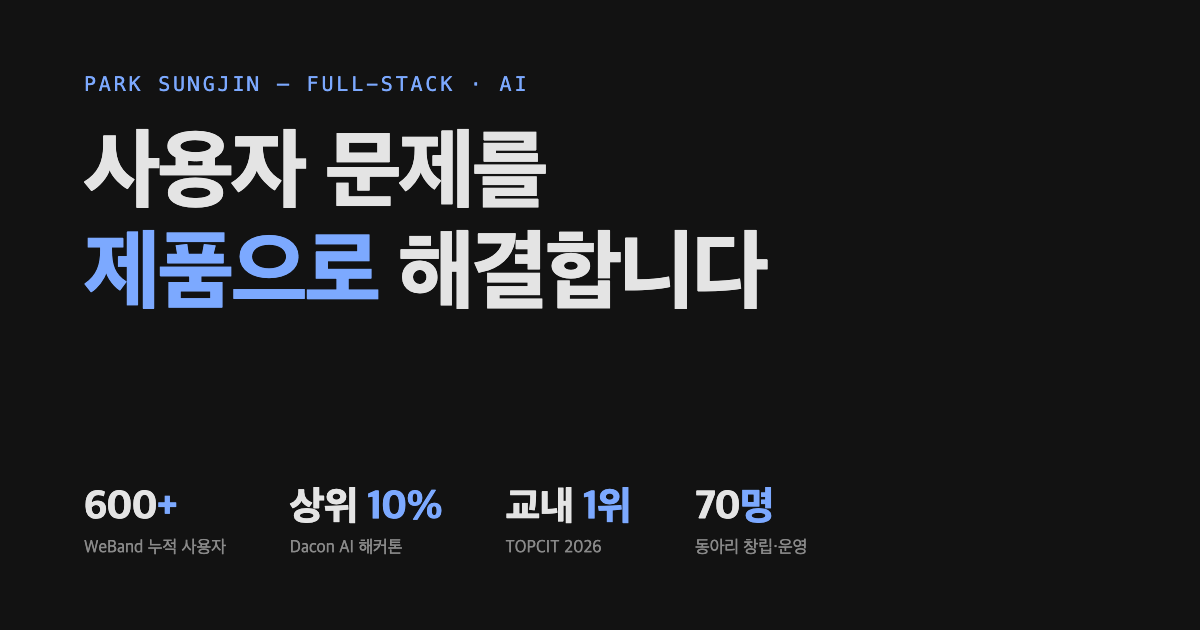
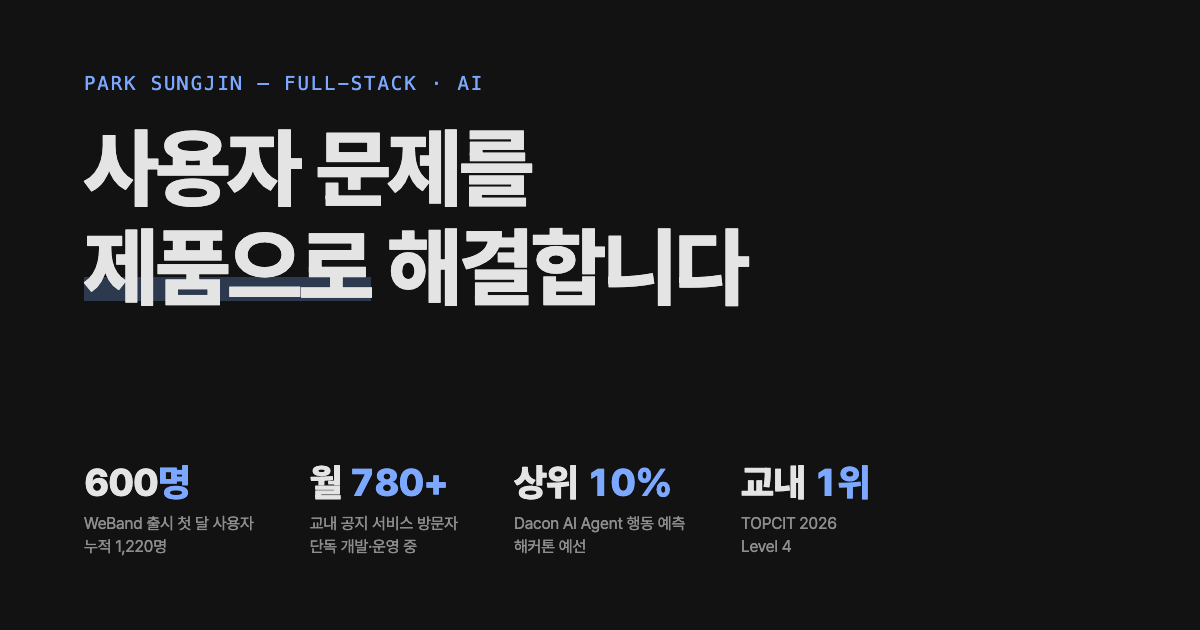
문장 형태·히어로 폴드·OG 정합성 수정
리서치 결과 '기계로 만든 느낌'의 주원인이 디자인이 아니라 문장 형태로
확인됨: 본문 전체가 '[정의] — [부연]' 한 가지 구문을 29회 반복.

- em-dash 29 → 10. 21개 항목을 자연스러운 문장으로 재작성
  (남은 것은 날짜 범위 등 정당한 용례)
- 히어로 상단 패딩 축소: 720~800px 노트북에서 연락처 링크가
  폴드 아래로 밀리던 문제 해소
- 다크모드에서 알파 0.12로 사실상 보이지 않던 h1 하이라이트 강화
- 모바일에서 '600' 숫자가 프로젝트 제목보다 위에 오던 순서 수정
  (맥락 없는 숫자가 첫인상이 되고, aria-hidden이라 낭독도 안 됨)
- OG 이미지를 사이트 지표와 일치시킴 (누적/첫 달 혼동, 항목 불일치)
- 블로그 문장을 편수 우선에서 근거 우선으로 재배열

diff --git a/index.html b/index.html
@@ -34,7 +34,7 @@ document.documentElement.setAttribute('data-theme',t);document.documentElement.c
   --accent:#1D4ED8;
   --border:color-mix(in oklab, var(--fg) 13%, transparent);
   --border-soft:color-mix(in oklab, var(--fg) 7%, transparent);
-  --accent-weak:color-mix(in oklab, var(--accent) 9%, transparent);
+  --accent-weak:color-mix(in oklab, var(--accent) 16%, transparent);
   --mono:ui-monospace,"SF Mono",SFMono-Regular,Menlo,Consolas,"Liberation Mono",monospace;
 }
 :root[data-theme="dark"]{
@@ -45,7 +45,7 @@ document.documentElement.setAttribute('data-theme',t);document.documentElement.c
   --fg-2:rgba(255,255,255,.65);
   --fg-3:rgba(255,255,255,.52);
   --accent:#7CA9FF;
-  --accent-weak:color-mix(in oklab, var(--accent) 12%, transparent);
+  --accent-weak:color-mix(in oklab, var(--accent) 26%, transparent);
 }
 /* JS 미실행 환경에서도 시스템 다크 선호 존중 */
 @media (prefers-color-scheme:dark){
@@ -57,7 +57,7 @@ document.documentElement.setAttribute('data-theme',t);document.documentElement.c
     --fg-2:rgba(255,255,255,.65);
     --fg-3:rgba(255,255,255,.52);
     --accent:#7CA9FF;
-    --accent-weak:color-mix(in oklab, var(--accent) 12%, transparent);
+    --accent-weak:color-mix(in oklab, var(--accent) 26%, transparent);
   }
 }
 
@@ -115,7 +115,7 @@ code{font-family:var(--mono);font-size:.88em;background:color-mix(in oklab, var(
 #theme:hover{color:var(--fg);border-color:var(--fg-3)}
 
 /* ── hero ───────────────────────────────────────────── */
-.hero{padding-block:clamp(5rem,4rem + 8vw,11rem) clamp(4rem,3rem + 5vw,7rem)}
+.hero{padding-block:clamp(3rem,2.25rem + 3.5vw,5.5rem) clamp(4rem,3rem + 5vw,7rem)}
 .eyebrow{font-family:var(--mono);font-size:.78rem;letter-spacing:.08em;color:var(--accent);text-transform:uppercase}
 h1{
   margin-top:1.25rem;
@@ -276,7 +276,7 @@ figcaption{margin-top:.85rem;font-size:.85rem;color:var(--fg-3);max-width:52ch}
   .stats{grid-template-columns:repeat(2,auto)}
   .about-grid{grid-template-columns:1fr}
   .case-grid{grid-template-columns:1fr}
-  .case-figure{text-align:left;order:-1}
+  .case-figure{text-align:left}
 }
 @media (max-width:640px){
   body{font-size:1rem}
@@ -340,7 +340,7 @@ figcaption{margin-top:.85rem;font-size:.85rem;color:var(--fg-3);max-width:52ch}
       <article class="case reveal">
         <p class="meta"><span>2026.04 —</span><span class="on">Live</span><span>Next.js</span><span>FastAPI</span><span>SQLite</span><span>RAG</span></p>
         <h3>KAU Notice Hub</h3>
-        <p class="case-lede">약 70개 사이트에 흩어진 교내 공지를 한곳에서 — 수집·검색·질의응답까지 혼자 만들어, 교내 구성원이 활발히 사용 중인 서비스.</p>
+        <p class="case-lede">약 70개 사이트에 흩어진 교내 공지를 한곳에 모았습니다. 수집부터 검색, 질의응답까지 혼자 만들었고 지금 교내 구성원이 쓰고 있습니다.</p>
 
         <div class="case-body">
           <p><span class="lead-in">문제</span>한국항공대의 공지는 학과·부서별로 약 70개 웹사이트에 흩어져 있고, 매년 2,000건 넘게 올라옵니다. 장학금·행사 공지를 놓치는 일이 잦아, 전부 모아서 한곳에서 찾을 수 있게 만들었습니다.</p>
@@ -348,7 +348,7 @@ figcaption{margin-top:.85rem;font-size:.85rem;color:var(--fg-3);max-width:52ch}
 
           <figure class="shot-wide shot-hero reveal" style="margin-top:2.25rem">
             <img src="img/notice-hub-main.webp" width="1400" height="812" loading="lazy" decoding="async" alt="KAU Notice Hub 서비스 화면 — 왼쪽은 대상자·중분류로 좁혀 보는 공지 탐색 목록(총 2,455건), 오른쪽은 진행 중인 공모전을 묻는 질문에 근거 공지를 바탕으로 답한 AI 챗봇 대화">
-            <figcaption>실제 서비스 화면 — 공지 탐색 · AI 챗봇</figcaption>
+            <figcaption>실제 서비스 화면 (공지 탐색 · AI 챗봇)</figcaption>
           </figure>
 
           <ol class="flow" aria-label="시스템 구성 흐름" style="margin-top:2.5rem">
@@ -363,14 +363,14 @@ figcaption{margin-top:.85rem;font-size:.85rem;color:var(--fg-3);max-width:52ch}
           <ul class="decisions">
             <li>키워드 기반 RAG의 한계를 확인하고 <b>LLM 키워드 선택 → 문서 필터링 → reranking</b> 구조로 재설계했습니다. <a class="ref ext" href="https://qktjwl123.tistory.com/180" target="_blank" rel="noopener">글: RAG 고찰</a></li>
             <li>"좋아진 것 같다"로 끝내지 않기 위해 <b>RAGAS 평가 파이프라인</b>을 만들어 근거 충실성·관련성·정확성을 수치로 봅니다. <a class="ref ext" href="https://qktjwl123.tistory.com/181" target="_blank" rel="noopener">글: RAG 평가 도입</a></li>
-            <li>공지 데이터를 메모리에 전부 올리던 초기 구조에서 <b>OOM이 발생</b> — dmesg로 원인을 확인하고 SQLite 기반으로 바꾼 뒤 부하 테스트로 검증했습니다. <a class="ref ext" href="https://qktjwl123.tistory.com/179" target="_blank" rel="noopener">글: 인프라 점검</a></li>
+            <li>공지 데이터를 메모리에 전부 올리던 초기 구조에서 <b>OOM이 발생</b>했습니다. dmesg로 원인을 확인하고 SQLite 기반으로 바꾼 뒤 부하 테스트로 검증했습니다. <a class="ref ext" href="https://qktjwl123.tistory.com/179" target="_blank" rel="noopener">글: 인프라 점검</a></li>
             <li>공개 서비스의 비용·어뷰징 리스크에 대비해 <b>rate limit·요청 크기·출력 토큰 상한</b>을 걸고, Vercel Analytics로 사용 흐름을 보며 개선 방향을 정합니다. <a class="ref ext" href="https://qktjwl123.tistory.com/182" target="_blank" rel="noopener">글: 운영 리스크</a> <a class="ref ext" href="https://qktjwl123.tistory.com/186" target="_blank" rel="noopener">글: 모니터링</a></li>
           </ul>
-          <p><span class="lead-in">현재</span>교내 구성원이 활발히 사용하고 있습니다 — 최근 30일 방문자 782명, 페이지뷰 2,019회(Vercel Analytics, 2026.07). 유입 대부분이 교내 커뮤니티(에브리타임)를 통해 들어오며, AWS Lightsail 단일 서버에서 운영 중입니다. 위 결정들의 과정은 모두 블로그에 기록해 두었습니다.</p>
+          <p><span class="lead-in">현재</span>교내 구성원이 활발히 사용하고 있습니다. 최근 30일 방문자 782명, 페이지뷰 2,019회(Vercel Analytics, 2026.07). 유입 대부분이 교내 커뮤니티(에브리타임)를 통해 들어오며, AWS Lightsail 단일 서버에서 운영 중입니다. 위 결정들의 과정은 모두 블로그에 기록해 두었습니다.</p>
 
           <figure class="shot-wide reveal">
             <img src="img/notice-hub-analytics.webp" width="1400" height="902" loading="lazy" decoding="async" alt="Vercel Analytics 대시보드 — 최근 30일 방문자 782명, 페이지뷰 2,019회. 유입 경로 1위는 교내 커뮤니티 everytime.kr 439명">
-            <figcaption>Vercel Analytics — 최근 30일 · 유입 1위 everytime.kr</figcaption>
+            <figcaption>Vercel Analytics, 최근 30일 (유입 1위 everytime.kr)</figcaption>
           </figure>
 
           <dl class="kmetrics">
@@ -393,7 +393,7 @@ figcaption{margin-top:.85rem;font-size:.85rem;color:var(--fg-3);max-width:52ch}
         <div class="case-grid">
           <div>
             <h3>WeBand</h3>
-            <p class="case-lede">가입 없이 링크 하나로 팀 일정을 조율하는 웹 앱 — 출시 한 달 만에 사용자 600명.</p>
+            <p class="case-lede">가입 없이 링크 하나로 팀 일정을 조율하는 웹 앱입니다. 출시 한 달 만에 600명이 썼습니다.</p>
           </div>
           <div class="case-figure" aria-hidden="true">
             <span class="big-num">600</span>
@@ -406,7 +406,7 @@ figcaption{margin-top:.85rem;font-size:.85rem;color:var(--fg-3);max-width:52ch}
 
           <figure class="shot-url reveal">
             <img src="img/weband-url.webp" width="1130" height="80" loading="lazy" decoding="async" alt="브라우저 주소창 — we-band.vercel.app/lite/260726/홍길동.~AFAHA_AGBLAGBnAEB_AFCaAK 처럼 일정이 인코딩된 짧은 공유 주소">
-            <figcaption>실제 공유 주소 — 서버 없이 일정 전체가 URL에 담깁니다</figcaption>
+            <figcaption>서버 없이 일정 전체가 이 주소 안에 담깁니다</figcaption>
           </figure>
 
           <figure class="shots-fig reveal">
@@ -415,14 +415,14 @@ figcaption{margin-top:.85rem;font-size:.85rem;color:var(--fg-3);max-width:52ch}
               <img src="img/weband-input.webp" width="560" height="1213" loading="lazy" decoding="async" alt="주간 시간표에서 가능한 시간대를 구간으로 선택해 입력한 화면">
               <img src="img/weband-share.webp" width="560" height="1213" loading="lazy" decoding="async" alt="일정 저장 완료 안내 — 일정이 인코딩된 짧은 공유 URL이 표시된 화면">
             </div>
-            <figcaption>실제 서비스 화면 — 날짜 선택 · 구간 입력 · URL 공유</figcaption>
+            <figcaption>실제 서비스 화면 (날짜 선택 · 구간 입력 · URL 공유)</figcaption>
           </figure>
 
           <p><span class="lead-in">결과</span>출시 한 달 만에 사용자 600명, 이후 2025년 3~9월 누적 방문자 1,220명·페이지뷰 6,055회를 기록했습니다(Vercel Analytics). 참여자가 늘며 URL 방식의 한계가 보여, 고정 공유 링크를 쓰는 DB 기반 <b>WeBand-Together</b>로 확장했습니다. 프로젝트 전 과정을 디자이너·백엔드 개발자와 협업하며 기획·UX·프론트엔드 구현을 주도했습니다.</p>
 
           <figure class="shot-wide reveal">
             <img src="img/weband-analytics.webp" width="1200" height="1014" loading="lazy" decoding="async" alt="Vercel Analytics 대시보드 — 방문자 1,220명, 페이지뷰 6,055회, 2025년 3월부터 9월까지의 방문자 추이 그래프">
-            <figcaption>Vercel Analytics — 2025.03 – 09</figcaption>
+            <figcaption>Vercel Analytics, 2025.03 – 09</figcaption>
           </figure>
           <p class="case-links">
             <a class="ext" href="https://we-band.vercel.app/lite" target="_blank" rel="noopener">서비스 열어보기</a>
@@ -435,7 +435,7 @@ figcaption{margin-top:.85rem;font-size:.85rem;color:var(--fg-3);max-width:52ch}
       <div class="archive reveal">
         <p class="archive-head">More Projects</p>
         <ul class="rows" data-stagger>
-          <li><span class="row"><span class="y">2026</span><a class="t ext" href="https://github.com/Jinpop/RosterCrawler" target="_blank" rel="noopener">RosterCrawler</a><span class="d">교내 근로 업무(안전교육 관리) 자동화 — 좌표 기반 리포트 텍스트를 표로 복원, 저장 단위 개선으로 수집 성능 향상</span></span></li>
+          <li><span class="row"><span class="y">2026</span><a class="t ext" href="https://github.com/Jinpop/RosterCrawler" target="_blank" rel="noopener">RosterCrawler</a><span class="d">교내 근로 업무(안전교육 관리) 자동화. 좌표 기반 리포트 텍스트를 표로 복원했고, 저장 단위를 바꿔 수집 성능을 높였습니다</span></span></li>
           <li><span class="row"><span class="y">2026</span><a class="t ext" href="https://github.com/Jinpop/NoDupDownload" target="_blank" rel="noopener">NoDupDownload</a><span class="d">파일명·출처 URL로 중복 다운로드를 감지하는 Chrome 확장</span></span></li>
           <li><span class="row"><span class="y">2026</span><a class="t ext" href="https://github.com/Jinpop/Media-Model-Lab" target="_blank" rel="noopener">Media Model Lab</a><span class="d">OpenAI·Replicate 미디어 생성 모델을 한곳에서 실험·비교하는 플레이그라운드</span></span></li>
         </ul>
@@ -451,19 +451,19 @@ figcaption{margin-top:.85rem;font-size:.85rem;color:var(--fg-3);max-width:52ch}
       <article class="case reveal" style="padding-top:0">
         <p class="meta"><span>2026.07</span><span>Solo</span><span>Macro-F1</span><span>Multi-agent</span></p>
         <h3>Dacon — AI 코딩 에이전트 행동 예측</h3>
-        <p class="case-lede">에이전트의 세션 로그로 다음 행동 14클래스를 예측 — Baseline 0.43에서 0.7867까지, 예선 상위 10%. 실험 운영은 17개 역할로 나눈 AI 에이전트 하네스를 직접 설계해 맡겼습니다.</p>
+        <p class="case-lede">에이전트의 세션 로그로 다음 행동 14클래스를 예측하는 대회입니다. Baseline 0.43에서 0.7867까지 올려 예선 상위 10%를 기록했고, 실험 운영은 17개 역할로 나눈 AI 에이전트 하네스를 직접 설계해 맡겼습니다.</p>
         <div class="case-body">
           <p><span class="lead-in">문제 재정의</span>같은 요청이라도 파일을 읽었는지, 테스트가 통과했는지에 따라 에이전트의 다음 행동이 달라집니다. 단순 문장 분류가 아니라 <b>대화와 도구 사용으로 누적된 작업 상태를 추론하는 문제</b>로 정의하고, 현재 요청과 과거 행동을 잇는 관계형 피처를 설계했습니다.</p>
           <ul class="decisions">
-            <li>고전 ML(TF-IDF → HGB·LR·ComplementNB)과 Transformer 3종의 확률 블렌드 앙상블 — 개별 점수보다 <b>오류를 보완하는 조합</b>이 성능을 갈랐습니다.</li>
+            <li>고전 ML(TF-IDF → HGB·LR·ComplementNB)과 Transformer 3종을 확률 블렌드로 앙상블했습니다. 개별 점수보다 <b>오류를 보완하는 조합</b>이 성능을 갈랐습니다.</li>
             <li>history 복원 증강에서 <b>시점 정합성·중복 문제를 검증</b>하고, 신뢰 가능한 데이터만 2단계 학습(사전학습 → fine-tuning)에 사용했습니다.</li>
           </ul>
 
           <p><span class="lead-in">AI Agent 운영 하네스</span>실험 실행은 Claude 에이전트에 맡기고 저는 전략·승인·제출을 맡았습니다. 처음엔 하나의 에이전트에 전략 수립부터 학습·검증·기록까지 다 맡겼는데 단계 누락과 정보 혼선이 반복됐습니다. 원인을 모델의 능력이 아니라 <b>한 에이전트가 지는 책임과 컨텍스트가 너무 넓어진 작업 구조</b>로 보고 다시 설계했습니다.</p>
           <ul class="decisions">
-            <li><b>역할을 17개 서브에이전트로 분리</b> — 전략 수립 / 데이터·누수 감사 / 학습 설정 검증 / 승인된 작업 실행 / 제출물 검증 / 기록. 각 에이전트에는 프로젝트 전체가 아니라 <b>맡은 역할에 필요한 최소 정보만</b> 넘겼습니다.</li>
-            <li><b>자연어 보고 대신 산출물로 검증</b> — 실행에 실제로 적용된 설정을 남기는 <code>effective_config</code>, 코드·데이터 SHA 대조, 제출 ZIP 구조 자동 검사, 5행 end-to-end 추론 테스트.</li>
-            <li><b>검증 통과와 실행 권한을 분리</b> — 감사 통과는 '진행 자격'일 뿐이고, 실제 실행 권한은 사전 승인된 캠페인 범위 안에서만 나오도록 상태기계로 고정했습니다.</li>
+            <li><b>역할을 17개 서브에이전트로 분리</b>했습니다. 전략 수립, 데이터·누수 감사, 학습 설정 검증, 승인된 작업 실행, 제출물 검증, 기록으로 나눴고, 각 에이전트에는 프로젝트 전체가 아니라 <b>맡은 역할에 필요한 최소 정보만</b> 넘겼습니다.</li>
+            <li><b>자연어 보고 대신 산출물로 검증</b>했습니다. 실행에 실제로 적용된 설정을 남기는 <code>effective_config</code>, 코드·데이터 SHA 대조, 제출 ZIP 구조 자동 검사, 5행 end-to-end 추론 테스트를 붙였습니다.</li>
+            <li><b>검증 통과와 실행 권한을 분리</b>했습니다. 감사 통과는 '진행 자격'일 뿐이고, 실제 실행 권한은 사전 승인된 캠페인 범위 안에서만 나오도록 상태기계로 고정했습니다.</li>
             <li>사고가 날 때마다 규칙으로 편입하는 루프로 운영했고, 실제로 <b>학습 시작 전 결함을 2회 사전 차단</b>했습니다. 다른 모델(Codex)로 교차 감사한 건은 내부 검증을 4회 통과한 결함을 잡아내기도 했습니다.</li>
           </ul>
           <p>모든 실수가 사라지진 않았지만 <b>한 에이전트의 실수가 전체 과정을 그대로 통과하기 어려운 구조</b>가 됐고, 문제가 생겼을 때 어느 단계에서 어긋났는지 찾기 쉬워졌습니다. AI Agent의 성능은 모델만이 아니라 역할·컨텍스트·권한·검증 구조를 어떻게 설계하느냐에도 달려 있다는 걸 배웠습니다.</p>
@@ -496,22 +496,22 @@ figcaption{margin-top:.85rem;font-size:.85rem;color:var(--fg-3);max-width:52ch}
       <div class="about-grid">
         <div class="about-col reveal">
           <p class="prose" style="color:var(--fg-2)">만들고 배포하는 데서 멈추지 않고, 로그와 지표를 보며 서비스를 고쳐 나가는 일을 좋아합니다. AI를 도구로 쓰는 것을 넘어 그 행동을 데이터로 분석해 봤고, 여러 에이전트가 나눠 일하는 실험 구조를 직접 설계해 운영해 봤습니다. AI가 들어간 제품을 처음부터 끝까지 만들어 운영합니다.</p>
-          <p class="prose" style="color:var(--fg-2);margin-top:1.1rem">부딪힌 문제는 남깁니다. 2024년 3월부터 <a class="lk ext" href="https://qktjwl123.tistory.com/" target="_blank" rel="noopener">기술 블로그</a>에 153편을 썼고, 위 프로젝트의 설계 결정과 트러블슈팅도 대부분 그 안에 기록돼 있습니다.</p>
+          <p class="prose" style="color:var(--fg-2);margin-top:1.1rem">부딪힌 문제는 기록으로 남깁니다. 위 프로젝트의 설계 결정과 트러블슈팅은 대부분 <a class="lk ext" href="https://qktjwl123.tistory.com/" target="_blank" rel="noopener">기술 블로그</a>에 글로 남겼고, 2024년 3월부터 153편을 썼습니다.</p>
           <h3 style="margin-top:3rem">Skills</h3>
           <dl class="skills">
-            <div><dt>운영 서비스에서</dt><dd><b>Next.js · TypeScript · FastAPI · SQLite · Docker · AWS</b> — KAU Notice Hub의 스택. SQLite는 저사양 단일 서버에서 관리 부담 없이 쓰기 위한 선택이었습니다.</dd></div>
+            <div><dt>운영 서비스에서</dt><dd><b>Next.js · TypeScript · FastAPI · SQLite · Docker · AWS</b> — KAU Notice Hub를 만든 스택입니다. SQLite는 저사양 단일 서버에서 관리 부담 없이 쓰기 위한 선택이었습니다.</dd></div>
             <div><dt>AI</dt><dd><b>LLM 애플리케이션(RAG 설계 · RAGAS 평가) · 멀티 에이전트 오케스트레이션 · 모델 경량화(GPTQ 양자화)</b> — RAG는 Notice Hub 챗봇으로 운영 중이고, 에이전트 오케스트레이션은 Dacon 실험 운영에, 양자화는 LG Aimers 제출 모델에 적용했습니다.</dd></div>
-            <div><dt>언어</dt><dd><b>Python · TypeScript/JavaScript · C++</b> — 알고리즘 대회는 C++, 제품은 TypeScript·Python.</dd></div>
+            <div><dt>언어</dt><dd><b>Python · TypeScript/JavaScript · C++</b> — 알고리즘 대회에서는 C++를, 제품에서는 TypeScript와 Python을 씁니다.</dd></div>
             <div><dt>협업 · 도구</dt><dd><b>Git/GitHub · Figma · Notion · Jira · Slack · Claude · Codex</b> — 디자이너·백엔드 개발자와 WeBand를 함께 만들었습니다.</dd></div>
           </dl>
         </div>
         <div class="about-col reveal">
           <h3>협업 · 리더십</h3>
           <ul class="plain">
-            <li><b>교내 멘토링 7회</b> — 3중 멘토링 59팀 중 4등, 우수 멘토 선정</li>
-            <li><b>클라이밍 동아리 Hands On Top! 창립</b> — 70명 규모 운영, 교내 지원 프로그램 100여 팀 중 6팀 선정</li>
-            <li><b>자라섬 재즈 페스티벌 자원봉사</b> — 해외 아티스트 영어 통역·현장 운영</li>
-            <li><b>중국 톈진 국제학교 4년</b> — 영어 수업, 다문화 환경 협업</li>
+            <li><b>교내 멘토링 7회</b>. 3중 멘토링에서 59팀 중 4등으로 우수 멘토에 선정됐습니다</li>
+            <li><b>클라이밍 동아리 Hands On Top! 창립</b>. 70명 규모로 운영 중이고, 교내 지원 프로그램에서 100여 팀 중 6팀에 선정됐습니다</li>
+            <li><b>자라섬 재즈 페스티벌 자원봉사</b>. 해외 아티스트 영어 통역과 현장 운영을 맡았습니다</li>
+            <li><b>중국 톈진 국제학교 4년</b>. 영어로 수업을 듣고 다문화 환경에서 협업했습니다</li>
           </ul>
           <h3 style="margin-top:3rem">Awards</h3>
           <table class="awards">
